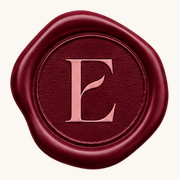
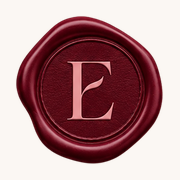
Marca aba selecionada com silhueta do carimbo e reforça ícone de instalação no iPhone

diff --git a/src/components/TabIcon.tsx b/src/components/TabIcon.tsx
@@ -1,35 +1,70 @@
 import Svg, { Path, Circle } from "react-native-svg";
-import type { ColorValue } from "react-native";
+import { View, Image, type ColorValue } from "react-native";
+import { colors } from "../theme";
 
-export function TabIcon({ name, color }: { name: string; color: ColorValue }) {
+export function TabIcon({
+  name,
+  color,
+  selected = false,
+}: {
+  name: string;
+  color: ColorValue;
+  selected?: boolean;
+}) {
   return (
-    <Svg
-      accessible={false}
-      width={24}
-      height={24}
-      viewBox="0 0 24 24"
-      fill="none"
-      stroke={color}
-      strokeWidth={1.7}
-      strokeLinecap="round"
-      strokeLinejoin="round"
+    <View
+      pointerEvents="none"
+      style={{
+        width: 24,
+        height: 24,
+        alignItems: "center",
+        justifyContent: "center",
+      }}
     >
-      {name === "home" ? (
-        <Path d="M3 10 12 3l9 7v11h-6v-7H9v7H3Z" />
-      ) : name === "learn" ? (
-        <Path d="M12 5C9 3 5 3 2 4v16c3-1 7-1 10 1 3-2 7-2 10-1V4c-3-1-7-1-10 1Zm0 0v16" />
-      ) : name === "live" ? (
-        <>
-          <Path d="M3 8v8m3-11v14m12-14v14m3-11v8M6 12h12" />
-        </>
-      ) : name === "connect" ? (
-        <Path d="M21 11.5a8.5 8.5 0 0 1-8.5 8.5c-1.7 0-3.3-.5-4.6-1.3L3 21l1.5-5.2A8.5 8.5 0 1 1 21 11.5Z" />
-      ) : (
-        <>
-          <Circle cx={12} cy={7} r={4} />
-          <Path d="M4 21v-2a8 8 0 0 1 16 0v2" />
-        </>
+      {selected && (
+        <Image
+          source={require("../../assets/brand/seal.png")}
+          accessible={false}
+          resizeMode="contain"
+          style={{
+            position: "absolute",
+            width: 58,
+            height: 58,
+            left: -17,
+            top: -6,
+            tintColor: colors.pink,
+            opacity: 0.85,
+          }}
+        />
       )}
-    </Svg>
+      <Svg
+        accessible={false}
+        width={24}
+        height={24}
+        viewBox="0 0 24 24"
+        fill="none"
+        stroke={color}
+        strokeWidth={1.7}
+        strokeLinecap="round"
+        strokeLinejoin="round"
+      >
+        {name === "home" ? (
+          <Path d="M3 10 12 3l9 7v11h-6v-7H9v7H3Z" />
+        ) : name === "learn" ? (
+          <Path d="M12 5C9 3 5 3 2 4v16c3-1 7-1 10 1 3-2 7-2 10-1V4c-3-1-7-1-10 1Zm0 0v16" />
+        ) : name === "live" ? (
+          <>
+            <Path d="M3 8v8m3-11v14m12-14v14m3-11v8M6 12h12" />
+          </>
+        ) : name === "connect" ? (
+          <Path d="M21 11.5a8.5 8.5 0 0 1-8.5 8.5c-1.7 0-3.3-.5-4.6-1.3L3 21l1.5-5.2A8.5 8.5 0 1 1 21 11.5Z" />
+        ) : (
+          <>
+            <Circle cx={12} cy={7} r={4} />
+            <Path d="M4 21v-2a8 8 0 0 1 16 0v2" />
+          </>
+        )}
+      </Svg>
+    </View>
   );
 }

diff --git a/public/index.html b/public/index.html
@@ -6,7 +6,20 @@
       name="viewport"
       content="width=device-width, initial-scale=1, viewport-fit=cover"
     />
-    <link rel="apple-touch-icon" sizes="180x180" href="/apple-touch-icon.png" />
+    <link
+      rel="apple-touch-icon"
+      sizes="180x180"
+      href="/icons/eleva-seal-180-v2.png"
+    />
+    <link rel="manifest" href="/site.webmanifest" />
+    <link
+      rel="icon"
+      type="image/png"
+      sizes="192x192"
+      href="/icons/eleva-seal-192-v2.png"
+    />
+    <meta name="mobile-web-app-capable" content="yes" />
+    <meta name="apple-mobile-web-app-capable" content="yes" />
     <meta name="apple-mobile-web-app-title" content="ELEVA the club" />
     <meta name="theme-color" content="#4B0B22" />
     <meta

diff --git a/app/(tabs)/_layout.tsx b/app/(tabs)/_layout.tsx
@@ -57,7 +57,9 @@ export default function TabsLayout() {
           name={name}
           options={{
             title,
-            tabBarIcon: ({ color }) => <TabIcon name={name} color={color} />,
+            tabBarIcon: ({ color, focused }) => (
+              <TabIcon name={name} color={color} selected={focused} />
+            ),
           }}
         />
       ))}
